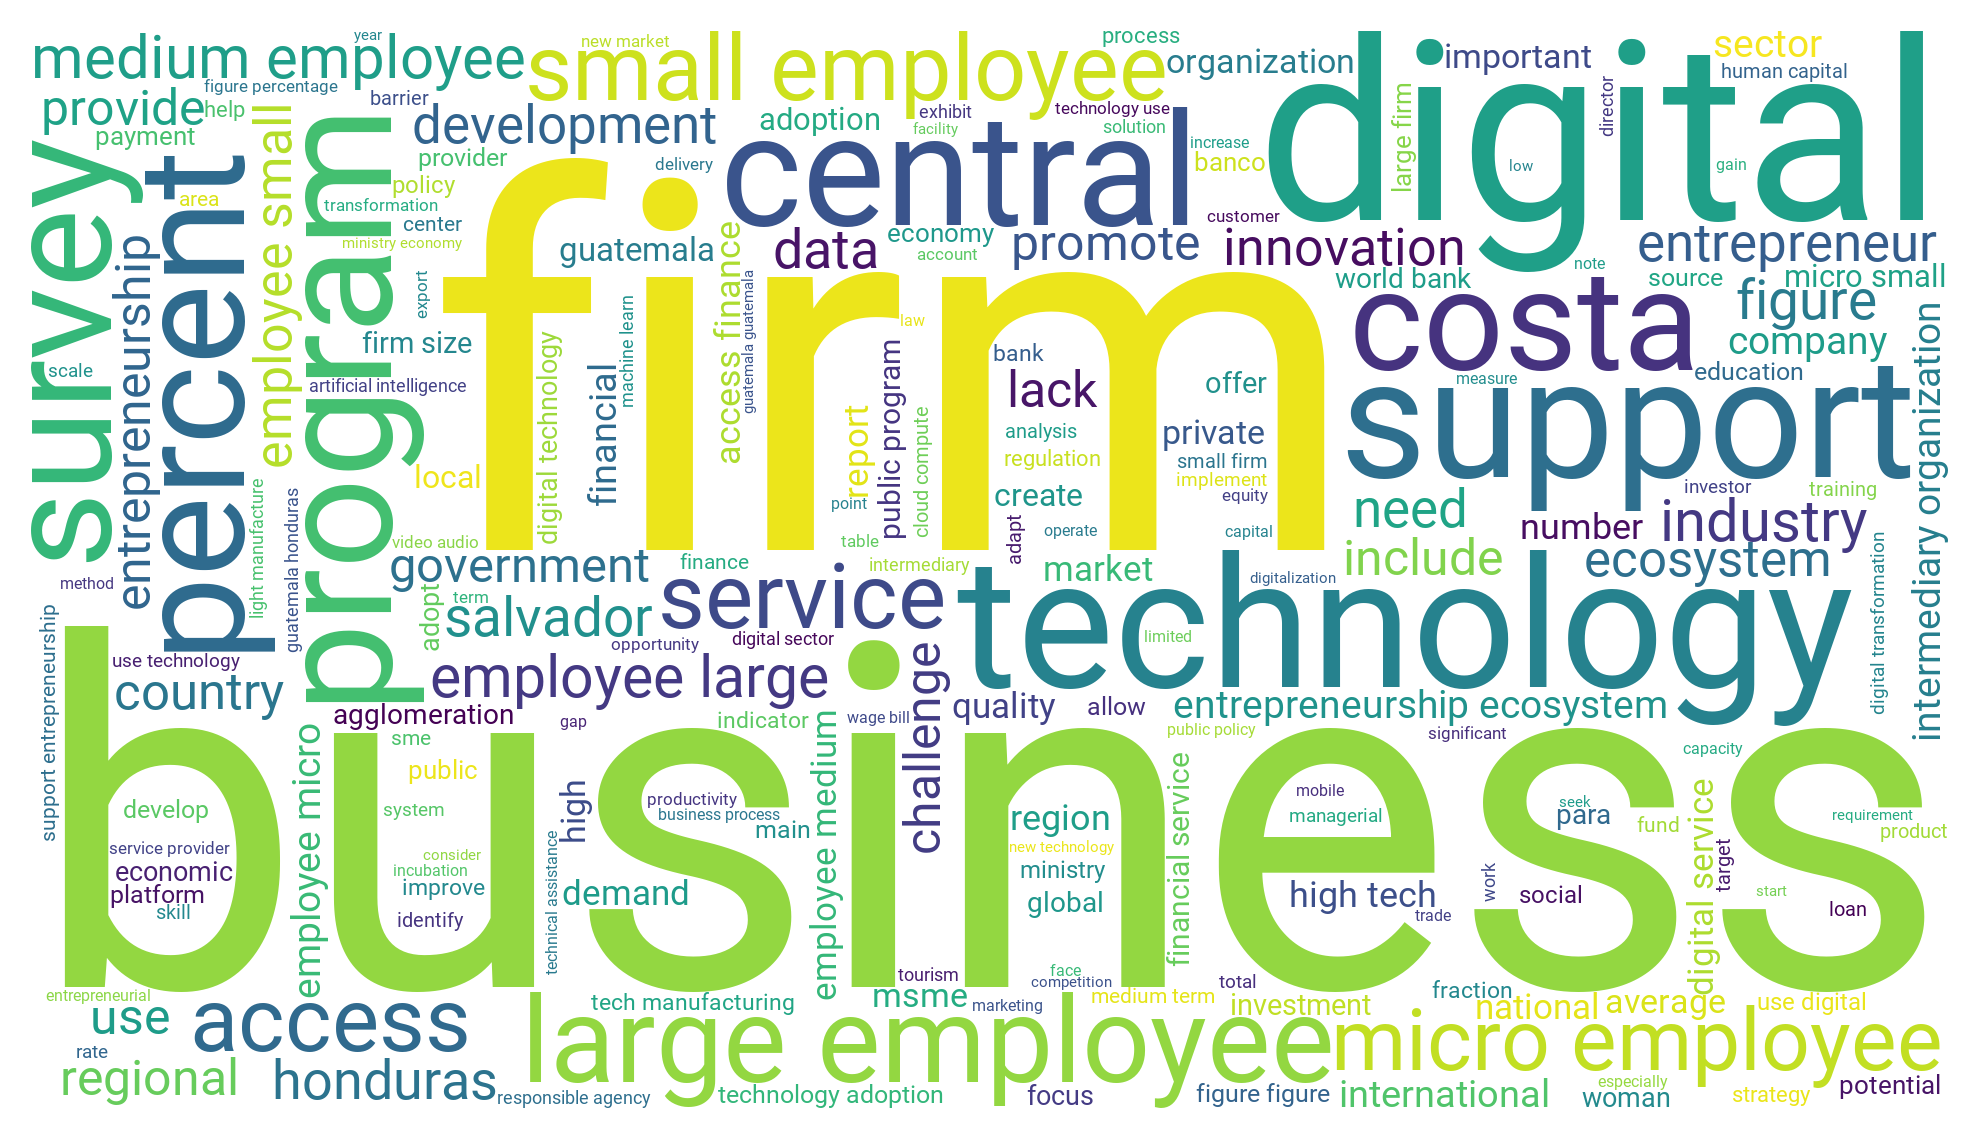
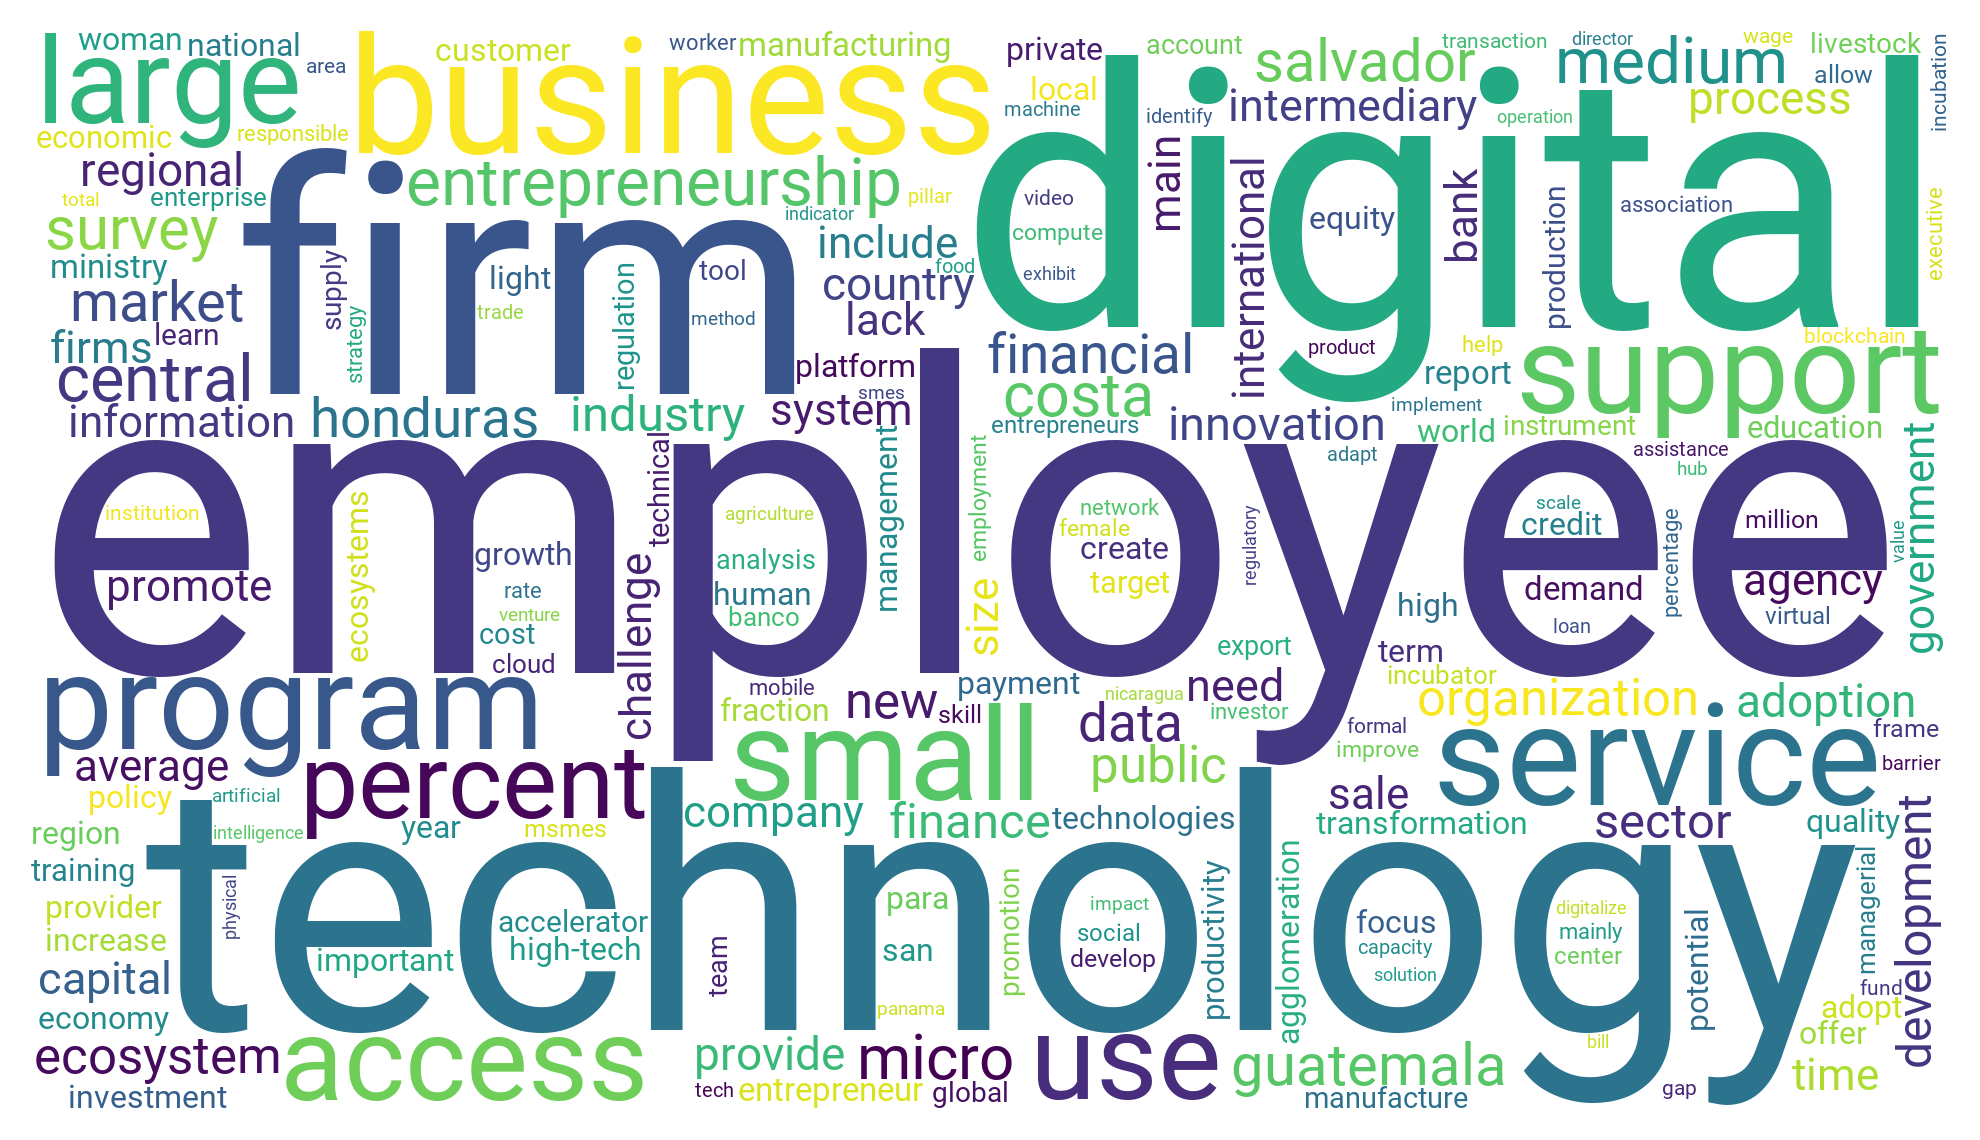
Add resume

diff --git a/makewordcloud.py b/makewordcloud.py
@@ -215,22 +215,22 @@ def make_one_word_cloud(text_path: str, image_path: str):
     frequencies.pop("world bank", None)
     frequencies.pop("world bank group", None)
 
-    cloud = wordcloud.WordCloud(width=1920, height=1080,
-                                background_color='white',
-                                stopwords=stop_words.STOP_WORDS,
-                                font_path="./assets/fonts/roboto/Roboto-Regular.ttf").generate(text)
-
     # cloud = wordcloud.WordCloud(width=1920, height=1080,
     #                             background_color='white',
-    #                             stopwords=set(),
-    #                             font_path="./assets/fonts/roboto/Roboto-Regular.ttf").generate_from_frequencies(
-    #     frequencies)
+    #                             stopwords=stop_words.STOP_WORDS,
+    #                             font_path="./assets/fonts/roboto/Roboto-Regular.ttf").generate(text)
+
+    cloud = wordcloud.WordCloud(width=1920, height=1080,
+                                background_color='white',
+                                font_path="./assets/fonts/roboto/Roboto-Regular.ttf").generate_from_frequencies(
+        frequencies)
 
     plt.imshow(cloud)
     plt.tight_layout(pad=0)
     plt.axis('off')
     plt.savefig(image_path, dpi=300, bbox_inches='tight')
 
+    return frequencies
 
 if __name__ == "__main__":
     logging.basicConfig(level=logging.DEBUG)
@@ -242,6 +242,8 @@ if __name__ == "__main__":
     make_one_word_cloud("_portfolio/starting_up_romania.txt",
                         "_portfolio/starting_up_romania_word_cloud.png")
 
-    make_one_word_cloud(
+    frequencies = make_one_word_cloud(
         "_portfolio/digital_entrepreneurship_and_innovation_in_central_america.txt",
         "_portfolio/digital_entrepreneurship_and_innovation_in_central_america_word_cloud.png")
+
+    sorted_frequencies = dict(sorted(frequencies.items()))

diff --git a/makewordcloudmin.py b/makewordcloudmin.py
@@ -1,0 +1,28 @@
+#!venv/bin/python
+
+import collections
+import matplotlib.pyplot as plt
+import wordcloud
+
+if __name__ == "__main__":
+
+    text = " ".join(["sme"] * 10 + ["r&d"] * 10)
+
+    frequencies = collections.Counter()
+    for word in text.split(" "):
+        frequencies[word] += 1
+    frequencies = dict(frequencies)
+
+    cloud = wordcloud.WordCloud().generate(text)
+    plt.imshow(cloud)
+    plt.tight_layout(pad=0)
+    plt.axis('off')
+    plt.title('text')
+    plt.show(bbox_inches='tight')
+
+    cloud = wordcloud.WordCloud().generate_from_frequencies(frequencies)
+    plt.imshow(cloud)
+    plt.tight_layout(pad=0)
+    plt.axis('off')
+    plt.title('frequencies')
+    plt.show(bbox_inches='tight')
